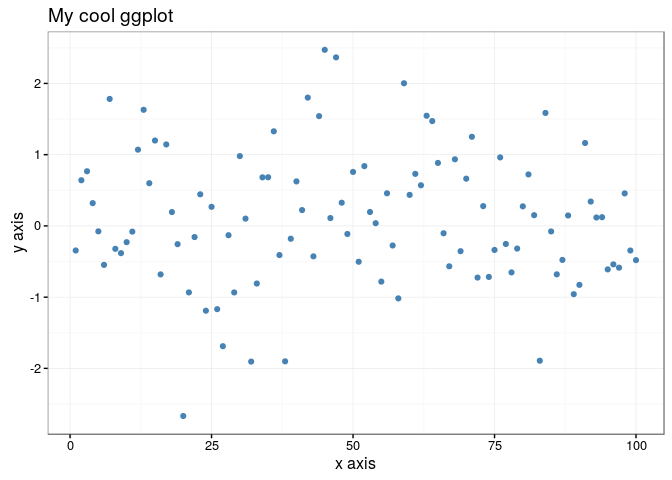
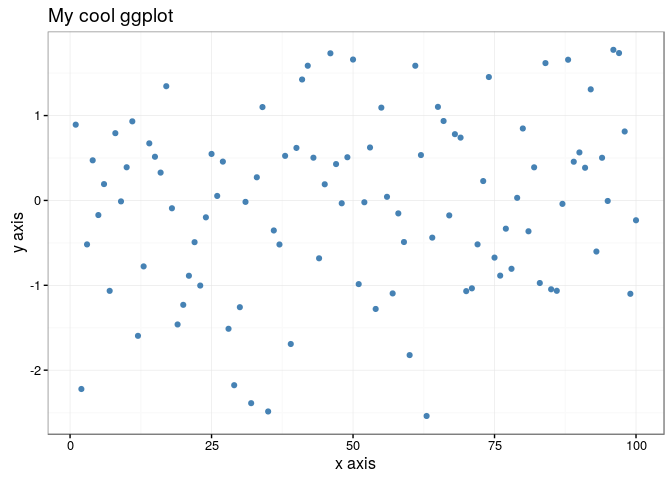
Updated README for new features BUGFIX: missing supplementary data

diff --git a/README.md b/README.md
@@ -1,8 +1,8 @@
-[![Project Status: Active - The project has reached a stable, usable state and is being actively developed.](http://www.repostatus.org/badges/latest/active.svg)](http://www.repostatus.org/#active) [![CRAN\_Status\_Badge](http://www.r-pkg.org/badges/version/ggghost)](https://cran.r-project.org/package=ggghost) [![packageversion](https://img.shields.io/badge/Package%20version-0.1.9000-orange.svg?style=flat-square)](commits/master) [![Last-changedate](https://img.shields.io/badge/last%20change-2016--08--08-yellowgreen.svg)](/commits/master)
+[![Project Status: Active - The project has reached a stable, usable state and is being actively developed.](http://www.repostatus.org/badges/latest/active.svg)](http://www.repostatus.org/#active) [![CRAN\_Status\_Badge](http://www.r-pkg.org/badges/version/ggghost)](https://cran.r-project.org/package=ggghost) [![packageversion](https://img.shields.io/badge/Package%20version-0.1.9000-orange.svg?style=flat-square)](commits/master) [![Last-changedate](https://img.shields.io/badge/last%20change-2016--08--18-yellowgreen.svg)](/commits/master)
 
 [![Linux/Mac Travis Build Status](https://img.shields.io/travis/jonocarroll/ggghost/master.svg?label=Mac%20OSX%20%26%20Linux)](https://travis-ci.org/jonocarroll/ggghost) [![AppVeyor Build Status](https://img.shields.io/appveyor/ci/jonocarroll/ggghost/master.svg?label=Windows)](https://ci.appveyor.com/project/jonocarroll/ggghost) [![codecov](https://codecov.io/gh/jonocarroll/ggghost/branch/master/graph/badge.svg)](https://codecov.io/gh/jonocarroll/ggghost)
 
-[![Downloads](http://cranlogs.r-pkg.org/badges/grand-total/ggghost)](http://www.r-pkg.org/pkg/ggghost) [![GitHub forks](https://img.shields.io/github/forks/jonocarroll/ggghost.svg)](https://github.com/jonocarroll/ggghost/network) [![GitHub stars](https://img.shields.io/github/stars/jonocarroll/ggghost.svg)](https://github.com/jonocarroll/ggghost/stargazers) [![Twitter](https://img.shields.io/twitter/url/https/github.com/jonocarroll/ggghost.svg?style=social)](https://twitter.com/intent/tweet?text=Wow:&url=%5Bobject%20Object%5D)
+[![Downloads](http://cranlogs.r-pkg.org/badges/ggghost)](http://www.r-pkg.org/pkg/ggghost) [![GitHub forks](https://img.shields.io/github/forks/jonocarroll/ggghost.svg)](https://github.com/jonocarroll/ggghost/network) [![GitHub stars](https://img.shields.io/github/stars/jonocarroll/ggghost.svg)](https://github.com/jonocarroll/ggghost/stargazers) [![Twitter](https://img.shields.io/twitter/url/https/github.com/jonocarroll/ggghost.svg?style=social)](https://twitter.com/intent/tweet?text=Wow:&url=%5Bobject%20Object%5D)
 
 <!-- README.md is generated from README.Rmd. Please edit that file -->
 :ghost: *Oh, no! I think I saw a ... g-g-ghost*
@@ -45,13 +45,13 @@ use `%g<%` to initiate storage of the `ggplot2` calls then add to the call with 
 ``` r
 tmpdata <- data.frame(x = 1:100, y = rnorm(100))
 head(tmpdata)
-#>   x           y
-#> 1 1 -0.34471291
-#> 2 2  0.64126017
-#> 3 3  0.76714069
-#> 4 4  0.32004295
-#> 5 5 -0.07623337
-#> 6 6 -0.54644198
+#>   x          y
+#> 1 1  0.8930142
+#> 2 2 -2.2215165
+#> 3 3 -0.5178338
+#> 4 4  0.4729639
+#> 5 5 -0.1718715
+#> 6 6  0.1927056
 ```
 
 ``` r
@@ -131,7 +131,7 @@ str(print(z))
 #> List of 9
 #>  $ data       :'data.frame': 100 obs. of  2 variables:
 #>   ..$ x: int [1:100] 1 2 3 4 5 6 7 8 9 10 ...
-#>   ..$ y: num [1:100] -0.3447 0.6413 0.7671 0.32 -0.0762 ...
+#>   ..$ y: num [1:100] 0.893 -2.222 -0.518 0.473 -0.172 ...
 #>  $ layers     :List of 2
 #> [... truncated ...]
 ```
@@ -162,15 +162,27 @@ lazarus(z, "mycoolplot.gif")
 
 ![](README_supp/mycoolplot.gif)
 
+A supplementary data object (e.g. for use in a `geom_*` or `scale_*` call) can be added to the `ggghost` object
+
+``` r
+myColors <- c("alpha" = "red", "beta" = "blue", "gamma" = "green")
+supp_data(z) <- myColors
+```
+
+These will be recovered along with the primary data.
+
 For full reproducibility, the entire structure can be saved to an object for re-loading at a later point. This may not have made much sense for a `ggplot2` object, but now both the original data and the calls to generate the plot are saved. Should the environment that generated the plot be destroyed, all is not lost.
 
 ``` r
 saveRDS(z, file = "README_supp/mycoolplot.rds")
 rm(z)
 rm(tmpdata)
+rm(myColors)
 exists("z")
 #> [1] FALSE
 exists("tmpdata")
+#> [1] FALSE
+exists("myColors")
 #> [1] FALSE
 ```
 
@@ -191,22 +203,30 @@ str(z)
 #>   ..$ data_name: chr "tmpdata"
 #>   ..$ data     :'data.frame':    100 obs. of  2 variables:
 #>   .. ..$ x: int [1:100] 1 2 3 4 5 6 7 8 9 10 ...
-#>   .. ..$ y: num [1:100] -0.3447 0.6413 0.7671 0.32 -0.0762 ...
+#>   .. ..$ y: num [1:100] 0.893 -2.222 -0.518 0.473 -0.172 ...
+#>  - attr(*, "suppdata")=List of 2
+#>   ..$ supp_data_name: chr "myColors"
+#>   ..$ supp_data     : Named chr [1:3] "red" "blue" "green"
+#>   .. ..- attr(*, "names")= chr [1:3] "alpha" "beta" "gamma"
 
-recover_data(z)
+recover_data(z, supp = TRUE)
 head(tmpdata)
-#>   x           y
-#> 1 1 -0.34471291
-#> 2 2  0.64126017
-#> 3 3  0.76714069
-#> 4 4  0.32004295
-#> 5 5 -0.07623337
-#> 6 6 -0.54644198
+#>   x          y
+#> 1 1  0.8930142
+#> 2 2 -2.2215165
+#> 3 3 -0.5178338
+#> 4 4  0.4729639
+#> 5 5 -0.1718715
+#> 6 6  0.1927056
+
+myColors
+#>   alpha    beta   gamma 
+#>   "red"  "blue" "green"
 
 z
 ```
 
-![](README_supp/README-unnamed-chunk-16-1.png)
+![](README_supp/README-unnamed-chunk-17-1.png)
 
 We now have a proper reproducible graphic.
 
@@ -214,5 +234,5 @@ Caveats
 -------
 
 -   The data *must* be used as an argument in the `ggplot2` call, not piped in to it. Pipelines such as `z %g<% tmpdata %>% ggplot()` won't work... yet.
--   Only one original data set will be stored; the one in the original `ggplot(data = x)` call. If you require supplementary data for some `geom` then you need manage storage/consistency of that.
+-   ~~Only one original data set will be stored; the one in the original `ggplot(data = x)` call. If you require supplementary data for some `geom` then you need manage storage/consistency of that.~~ (fixed)
 -   For removing `labs` calls, an argument *must* be present. It doesn't need to be the actual one (all will be removed) but it must evaluate in scope. `TRUE` will do fine.
